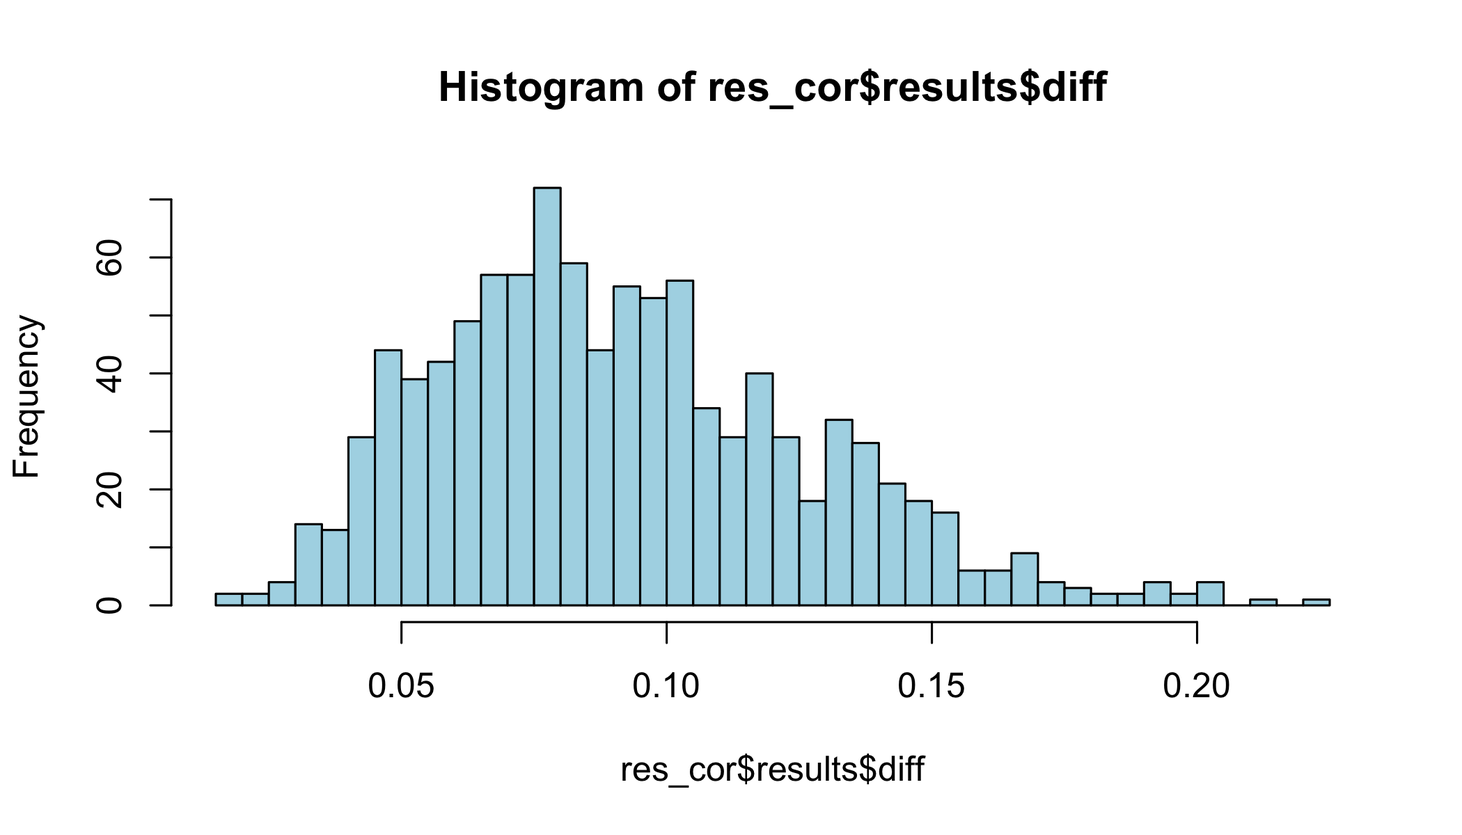
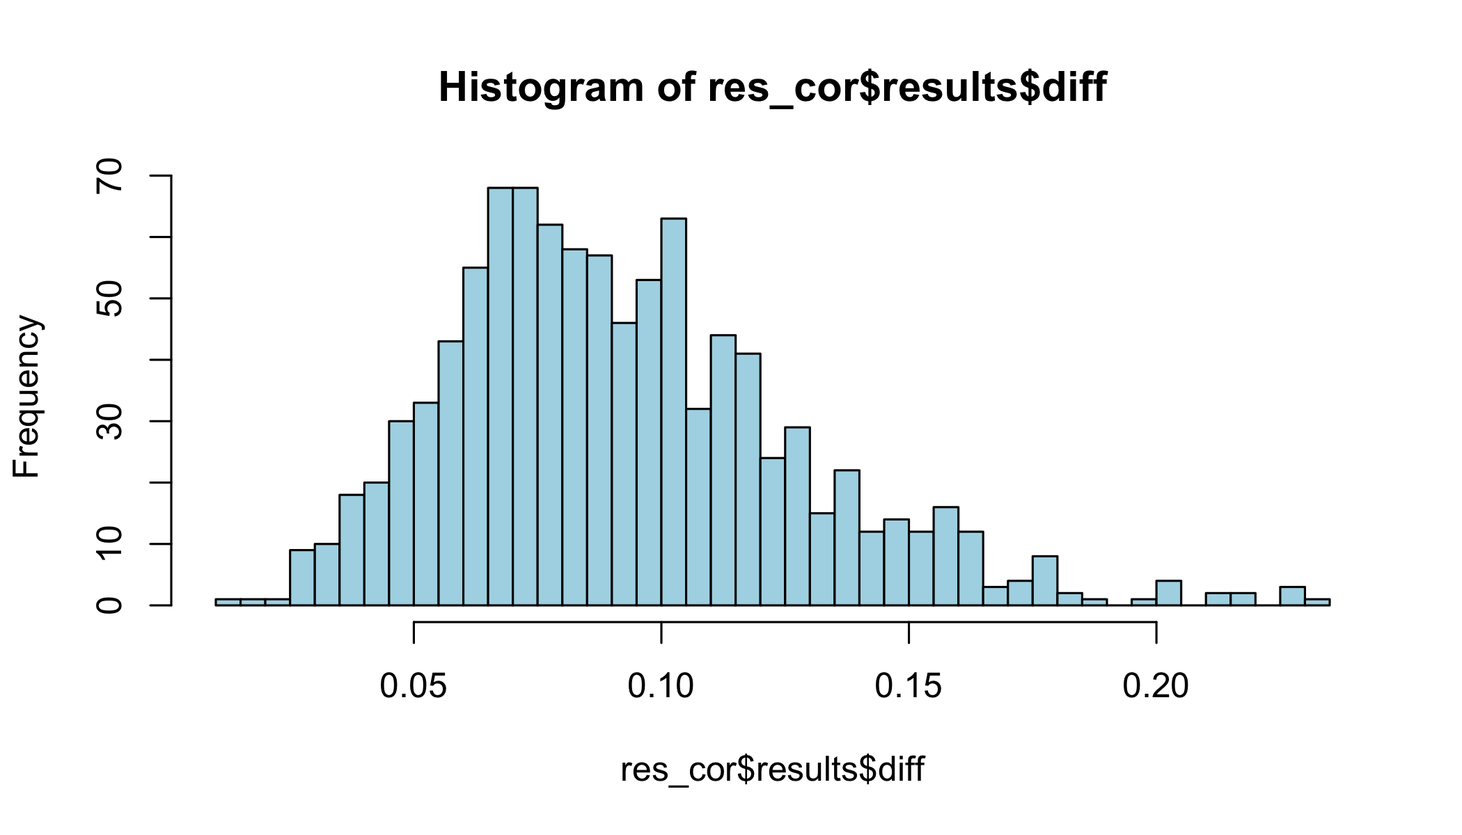
0.2.3 sim

diff --git a/docs/simcutoffs.html b/docs/simcutoffs.html
@@ -5,7 +5,7 @@
 <meta name="generator" content="quarto-1.5.56">
 <meta name="viewport" content="width=device-width, initial-scale=1.0, user-scalable=yes">
 <meta name="author" content="Magnus Johansson">
-<meta name="dcterms.date" content="2024-08-19">
+<meta name="dcterms.date" content="2024-08-20">
 <title>Simulation based cutoff values for Rasch item fit and residual correlations – R, Rasch, etc</title>
 <style>
 code{white-space: pre-wrap;}
@@ -195,9 +195,9 @@ div.csl-indent {
             <div class="quarto-navbar-tools">
 </div>
       </div> <!-- /container-fluid -->
-    </nav><div id="quarto-announcement" data-announcement-id="4f2c371d4eccc0acd69f13ac61f33082" class="alert alert-primary hidden">
+    </nav><div id="quarto-announcement" data-announcement-id="f2201fbbefb1e9b8685bd91e4d0da5c8" class="alert alert-primary hidden">
 <i class="bi bi-info-circle quarto-announcement-icon"></i><div class="quarto-announcement-content">
-<p><strong>Note:</strong> The RISEkbmRasch vignette has new sections on item fit visualization, LR DIF tests, and person fit. Also, item fit now uses conditional estimation.</p>
+<p><strong>Note:</strong> The RISEkbmRasch vignette has new material on conditional item fit and simulation based cutoff values.</p>
 </div>
 <i class="bi bi-x-lg quarto-announcement-action"></i>
 </div>
@@ -244,7 +244,7 @@ div.csl-indent {
     <div>
     <div class="quarto-title-meta-heading">Published</div>
     <div class="quarto-title-meta-contents">
-      <p class="date">August 19, 2024</p>
+      <p class="date">August 20, 2024</p>
     </div>
   </div>
   
@@ -266,7 +266,7 @@ div.csl-indent {
 <details open="" class="code-fold"><summary>Code</summary><div class="sourceCode" id="cb1"><pre class="downlit sourceCode r code-with-copy"><code class="sourceCode R"><span><span class="kw"><a href="https://rdrr.io/r/base/library.html">library</a></span><span class="op">(</span><span class="va"><a href="https://github.com/pgmj/RISEkbmRasch">RISEkbmRasch</a></span><span class="op">)</span></span></code><button title="Copy to Clipboard" class="code-copy-button"><i class="bi"></i></button></pre></div>
 </details>
 </div>
-<p>For simplicity, we will use the dataset <code>pcmdat2</code> included in the <code>eRm</code> package.</p>
+<p>For simplicity, we will use the dataset <code>pcmdat2</code> included in the <code>eRm</code> package. If you want to use this function with dichotomous data, use option <code>model = "RM"</code>.</p>
 <div class="cell">
 <details open="" class="code-fold"><summary>Code</summary><div class="sourceCode" id="cb2"><pre class="downlit sourceCode r code-with-copy"><code class="sourceCode R"><span><span class="va">res_cor</span> <span class="op">&lt;-</span> <span class="fu"><a href="https://rdrr.io/pkg/RISEkbmRasch/man/RIgetResidCor.html">RIgetResidCor</a></span><span class="op">(</span><span class="va">pcmdat2</span>, iterations <span class="op">=</span> <span class="fl">1000</span>, cpu <span class="op">=</span> <span class="fl">8</span><span class="op">)</span></span></code><button title="Copy to Clipboard" class="code-copy-button"><i class="bi"></i></button></pre></div>
 </details>
@@ -277,17 +277,17 @@ div.csl-indent {
 </details><div class="cell-output cell-output-stdout">
 <pre><code>List of 8
  $ results    :'data.frame':    1000 obs. of  3 variables:
-  ..$ mean: num [1:1000] -0.256 -0.235 -0.262 -0.265 -0.259 ...
-  ..$ max : num [1:1000] -0.155 -0.175 -0.209 -0.206 -0.124 ...
-  ..$ diff: num [1:1000] 0.1009 0.0596 0.0523 0.0587 0.1344 ...
+  ..$ mean: num [1:1000] -0.269 -0.26 -0.251 -0.265 -0.26 ...
+  ..$ max : num [1:1000] -0.196 -0.183 -0.177 -0.224 -0.175 ...
+  ..$ diff: num [1:1000] 0.0734 0.0769 0.0738 0.0414 0.0854 ...
  $ sample_n   : int 300
  $ sample_mean: num 0.684
  $ sample_sd  : num 1.54
- $ max_diff   : num 0.221
- $ sd_diff    : num 0.035
- $ p95        : Named num 0.154
+ $ max_diff   : num 0.232
+ $ sd_diff    : num 0.0352
+ $ p95        : Named num 0.157
   ..- attr(*, "names")= chr "95%"
- $ p99        : Named num 0.192
+ $ p99        : Named num 0.201
   ..- attr(*, "names")= chr "99%"</code></pre>
 </div>
 </div>
@@ -337,7 +337,7 @@ div.csl-indent {
 <tfoot>
 <tr><td style="padding: 0; " colspan="100%"><span style="font-style: italic;">Note: </span></td></tr>
 <tr><td style="padding: 0; " colspan="100%">
-<sup></sup> Relative cut-off value (highlighted in red) is -0.034, which is 0.192 above the average correlation (-0.226).</td></tr>
+<sup></sup> Relative cut-off value (highlighted in red) is -0.025, which is 0.201 above the average correlation (-0.226).</td></tr>
 </tfoot>
 </table>
 </div>
@@ -355,7 +355,7 @@ div.csl-indent {
 <details open="" class="code-fold"><summary>Code</summary><div class="sourceCode" id="cb7"><pre class="downlit sourceCode r code-with-copy"><code class="sourceCode R"><span><span class="fu"><a href="https://rdrr.io/r/base/summary.html">summary</a></span><span class="op">(</span><span class="va">res_cor</span><span class="op">$</span><span class="va">results</span><span class="op">$</span><span class="va">diff</span><span class="op">)</span></span></code><button title="Copy to Clipboard" class="code-copy-button"><i class="bi"></i></button></pre></div>
 </details><div class="cell-output cell-output-stdout">
 <pre><code>   Min. 1st Qu.  Median    Mean 3rd Qu.    Max. 
-0.01686 0.06628 0.08726 0.09174 0.11379 0.22099 </code></pre>
+0.01376 0.06703 0.08674 0.09201 0.11227 0.23216 </code></pre>
 </div>
 </div>
 </section><section id="conditional-item-fit" class="level2" data-number="3"><h2 data-number="3" class="anchored" data-anchor-id="conditional-item-fit">
@@ -371,7 +371,7 @@ Note
 </div>
 </div>
 <div class="callout-body-container callout-body">
-<p>We will use 1000 simulations, but no extensive tests have been made (yet) to determine a reasonable number of simulations. The more items/thresholds and the bigger your sample size, the more time this simulation will take. If you have more cpu cores, this will reduce the time (please remember to not use all cores, leave 1-2 unused). To give some reference, the code below (n = 300, 4 items, 4 response categories) using 500 iterations took 7.7 seconds on 8 cpu cores and 11.7 seconds on 4 cores. 1000 iterations on 8 cores took 12.8 seconds (based on single runs).</p>
+<p>We will use 1000 simulations, but no extensive tests have been made (yet) to determine a reasonable number of simulations. The more items/thresholds and the bigger your sample size, the more time this simulation will take. If you have more cpu cores, this will reduce the time (please remember to not use all cores, leave 1-2 unused). To give some reference, the code below (n = 300, 4 items, 4 response categories per item) using 500 iterations took 7.7 seconds on 8 cpu cores and 11.7 seconds on 4 cores. 1000 iterations on 8 cores took 12.8 seconds (based on single runs).</p>
 </div>
 </div>
 <div class="cell">
@@ -383,13 +383,13 @@ Note
 <details open="" class="code-fold"><summary>Code</summary><div class="sourceCode" id="cb10"><pre class="downlit sourceCode r code-with-copy"><code class="sourceCode R"><span><span class="va">itemfit_sim</span><span class="op">[[</span><span class="fl">1</span><span class="op">]</span><span class="op">]</span></span></code><button title="Copy to Clipboard" class="code-copy-button"><i class="bi"></i></button></pre></div>
 </details><div class="cell-output cell-output-stdout">
 <pre><code>  Item InfitMSQ OutfitMSQ
-1   V1    1.079     1.024
-2   V2    0.987     1.017
-3   V3    1.037     1.065
-4   V4    0.873     0.839</code></pre>
+1   I1    0.972     0.923
+2   I2    0.982     1.009
+3   I3    1.038     1.044
+4   I4    1.008     0.996</code></pre>
 </div>
 </div>
-<p>This object can in turn be used with three different functions. Most importantly, you can use it with <code><a href="https://rdrr.io/pkg/RISEkbmRasch/man/RIitemfit.html">RIitemfit()</a></code> to set cutoff values for both MSQ and ZSTD based on your sample size and item parameters. <code><a href="https://rdrr.io/pkg/RISEkbmRasch/man/RIitemfit.html">RIitemfit()</a></code> uses the .05 and 99.5 percentile values for each individual item. The cutoff limit might be added as a user option later.</p>
+<p>This object can in turn be used with three different functions. Most importantly, you can use it with <code><a href="https://rdrr.io/pkg/RISEkbmRasch/man/RIitemfit.html">RIitemfit()</a></code> to set cutoff values for both MSQ and ZSTD based on your sample size and item parameters. <code><a href="https://rdrr.io/pkg/RISEkbmRasch/man/RIitemfit.html">RIitemfit()</a></code> uses the .05 and 99.5 percentile values for each individual item. The cutoff limit might be added as a user option later. You can optionally sort the table output according to misfit by using <code>sort = "infit"</code>.</p>
 <div class="cell">
 <details open="" class="code-fold"><summary>Code</summary><div class="sourceCode" id="cb12"><pre class="downlit sourceCode r code-with-copy"><code class="sourceCode R"><span><span class="fu"><a href="https://rdrr.io/pkg/RISEkbmRasch/man/RIitemfit.html">RIitemfit</a></span><span class="op">(</span><span class="va">pcmdat2</span>, simcut <span class="op">=</span> <span class="va">itemfit_sim</span><span class="op">)</span></span></code><button title="Copy to Clipboard" class="code-copy-button"><i class="bi"></i></button></pre></div>
 </details><div class="cell-output-display">
@@ -400,35 +400,45 @@ Note
    <th style="text-align:left;position: sticky; top:0; background-color: #FFFFFF;font-weight: bold;"> Infit thresholds </th>
    <th style="text-align:left;position: sticky; top:0; background-color: #FFFFFF;font-weight: bold;"> OutfitMSQ </th>
    <th style="text-align:left;position: sticky; top:0; background-color: #FFFFFF;font-weight: bold;"> Outfit thresholds </th>
+   <th style="text-align:right;position: sticky; top:0; background-color: #FFFFFF;font-weight: bold;"> Infit diff </th>
+   <th style="text-align:right;position: sticky; top:0; background-color: #FFFFFF;font-weight: bold;"> Outfit diff </th>
   </tr></thead>
 <tbody>
 <tr>
 <td style="text-align:left;"> I1 </td>
    <td style="text-align:left;"> <span style="     color: black !important;">1.08</span> </td>
-   <td style="text-align:left;"> [0.857, 1.165] </td>
+   <td style="text-align:left;"> [0.855, 1.155] </td>
    <td style="text-align:left;"> <span style="     color: black !important;">1.069</span> </td>
-   <td style="text-align:left;"> [0.815, 1.231] </td>
+   <td style="text-align:left;"> [0.824, 1.206] </td>
+   <td style="text-align:right;"> 0.075 </td>
+   <td style="text-align:right;"> 0.137 </td>
   </tr>
 <tr>
 <td style="text-align:left;"> I2 </td>
    <td style="text-align:left;"> <span style="     color: black !important;">1.155</span> </td>
-   <td style="text-align:left;"> [0.838, 1.166] </td>
+   <td style="text-align:left;"> [0.844, 1.179] </td>
    <td style="text-align:left;"> <span style="     color: black !important;">1.084</span> </td>
-   <td style="text-align:left;"> [0.769, 1.335] </td>
+   <td style="text-align:left;"> [0.783, 1.302] </td>
+   <td style="text-align:right;"> 0.024 </td>
+   <td style="text-align:right;"> 0.218 </td>
   </tr>
 <tr>
 <td style="text-align:left;"> I3 </td>
    <td style="text-align:left;"> <span style="     color: red !important;">0.828</span> </td>
-   <td style="text-align:left;"> [0.844, 1.154] </td>
-   <td style="text-align:left;"> <span style="     color: black !important;">0.802</span> </td>
-   <td style="text-align:left;"> [0.794, 1.23] </td>
+   <td style="text-align:left;"> [0.843, 1.158] </td>
+   <td style="text-align:left;"> <span style="     color: red !important;">0.802</span> </td>
+   <td style="text-align:left;"> [0.803, 1.252] </td>
+   <td style="text-align:right;"> 0.015 </td>
+   <td style="text-align:right;"> 0.001 </td>
   </tr>
 <tr>
 <td style="text-align:left;"> I4 </td>
    <td style="text-align:left;"> <span style="     color: black !important;">1.007</span> </td>
-   <td style="text-align:left;"> [0.821, 1.189] </td>
+   <td style="text-align:left;"> [0.839, 1.178] </td>
    <td style="text-align:left;"> <span style="     color: black !important;">1.024</span> </td>
-   <td style="text-align:left;"> [0.795, 1.236] </td>
+   <td style="text-align:left;"> [0.8, 1.205] </td>
+   <td style="text-align:right;"> 0.168 </td>
+   <td style="text-align:right;"> 0.181 </td>
   </tr>
 </tbody>
 <tfoot>
@@ -439,9 +449,9 @@ Note
 </table>
 </div>
 </div>
-<p>The function <code><a href="https://rdrr.io/pkg/RISEkbmRasch/man/RIgetfitPlot.html">RIgetfitPlot()</a></code> uses the package <code>ggdist</code> to plot the distribution of fit values from the simulation results.</p>
+<p>The function <code><a href="https://rdrr.io/pkg/RISEkbmRasch/man/RIgetfitPlot.html">RIgetfitPlot()</a></code> uses the package <code>ggdist</code> to plot the distribution of fit values from the simulation results. You can get the observed conditional item fit included in the plot by using the option <code>data = yourdataframe</code>.</p>
 <div class="cell">
-<details open="" class="code-fold"><summary>Code</summary><div class="sourceCode" id="cb13"><pre class="downlit sourceCode r code-with-copy"><code class="sourceCode R"><span><span class="fu"><a href="https://rdrr.io/pkg/RISEkbmRasch/man/RIgetfitPlot.html">RIgetfitPlot</a></span><span class="op">(</span><span class="va">itemfit_sim</span><span class="op">)</span></span></code><button title="Copy to Clipboard" class="code-copy-button"><i class="bi"></i></button></pre></div>
+<details open="" class="code-fold"><summary>Code</summary><div class="sourceCode" id="cb13"><pre class="downlit sourceCode r code-with-copy"><code class="sourceCode R"><span><span class="fu"><a href="https://rdrr.io/pkg/RISEkbmRasch/man/RIgetfitPlot.html">RIgetfitPlot</a></span><span class="op">(</span><span class="va">itemfit_sim</span>, data <span class="op">=</span> <span class="va">pcmdat2</span><span class="op">)</span></span></code><button title="Copy to Clipboard" class="code-copy-button"><i class="bi"></i></button></pre></div>
 </details><div class="cell-output-display">
 <div>
 <figure class="figure"><p><img src="simcutoffs_files/figure-html/unnamed-chunk-9-1.png" class="img-fluid figure-img" width="1050"></p>
@@ -486,18 +496,15 @@ attached base packages:
  [8] datasets  methods   base     
 
 other attached packages:
- [1] RASCHplot_0.1.0      ggdist_3.3.2         doParallel_1.0.17   
- [4] iterators_1.0.14     foreach_1.5.2        RISEkbmRasch_0.2.2.1
- [7] janitor_2.2.0        iarm_0.4.3           hexbin_1.28.3       
-[10] catR_3.17            glue_1.7.0           ggrepel_0.9.5       
-[13] patchwork_1.2.0      reshape_0.8.9        matrixStats_1.3.0   
-[16] psychotree_0.16-1    psychotools_0.7-4    partykit_1.2-21     
-[19] mvtnorm_1.2-5        libcoin_1.0-10       psych_2.4.6.26      
-[22] mirt_1.42            lattice_0.22-6       eRm_1.0-6           
-[25] lubridate_1.9.3      forcats_1.0.0        stringr_1.5.1       
-[28] dplyr_1.1.4          purrr_1.0.2          readr_2.1.5         
-[31] tidyr_1.3.1          tibble_3.2.1         ggplot2_3.5.1       
-[34] tidyverse_2.0.0      kableExtra_1.4.0     formattable_0.2.1   
+ [1] RASCHplot_0.1.0    ggdist_3.3.2       doParallel_1.0.17  iterators_1.0.14  
+ [5] foreach_1.5.2      RISEkbmRasch_0.2.3 janitor_2.2.0      iarm_0.4.3        
+ [9] hexbin_1.28.3      catR_3.17          glue_1.7.0         ggrepel_0.9.5     
+[13] patchwork_1.2.0    reshape_0.8.9      matrixStats_1.3.0  psychotree_0.16-1 
+[17] psychotools_0.7-4  partykit_1.2-21    mvtnorm_1.2-5      libcoin_1.0-10    
+[21] psych_2.4.6.26     mirt_1.42          lattice_0.22-6     eRm_1.0-6         
+[25] lubridate_1.9.3    forcats_1.0.0      stringr_1.5.1      dplyr_1.1.4       
+[29] purrr_1.0.2        readr_2.1.5        tidyr_1.3.1        tibble_3.2.1      
+[33] ggplot2_3.5.1      tidyverse_2.0.0    kableExtra_1.4.0   formattable_0.2.1 
 
 loaded via a namespace (and not attached):
   [1] later_1.3.2          splines_4.4.1        R.oo_1.26.0         
@@ -567,12 +574,12 @@ Müller, M. (2020). Item fit statistics for <span>Rasch</span> analysis: Can we 
   author = {Johansson, Magnus},
   title = {Simulation Based Cutoff Values for {Rasch} Item Fit and
     Residual Correlations},
-  date = {2024-08-19},
+  date = {2024-08-20},
   url = {https://pgmj.github.io/simcutoffs.html},
   langid = {en}
 }
 </code><button title="Copy to Clipboard" class="code-copy-button"><i class="bi"></i></button></pre><div class="quarto-appendix-secondary-label">For attribution, please cite this work as:</div><div id="ref-johansson2024" class="csl-entry quarto-appendix-citeas" role="listitem">
-Johansson, M. (2024, August 19). <em>Simulation based cutoff values for
+Johansson, M. (2024, August 20). <em>Simulation based cutoff values for
 Rasch item fit and residual correlations</em>. <a href="https://pgmj.github.io/simcutoffs.html">https://pgmj.github.io/simcutoffs.html</a>
 </div></div></section></div></main><!-- /main --><script id="quarto-html-after-body" type="application/javascript">
 window.document.addEventListener("DOMContentLoaded", function (event) {
@@ -1087,7 +1094,7 @@ window.document.addEventListener("DOMContentLoaded", function (event) {
 <span id="cb17-41"><a href="#cb17-41" aria-hidden="true" tabindex="-1"></a><span class="fu">library</span>(RISEkbmRasch)</span>
 <span id="cb17-42"><a href="#cb17-42" aria-hidden="true" tabindex="-1"></a><span class="in">```</span></span>
 <span id="cb17-43"><a href="#cb17-43" aria-hidden="true" tabindex="-1"></a></span>
-<span id="cb17-44"><a href="#cb17-44" aria-hidden="true" tabindex="-1"></a>For simplicity, we will use the dataset <span class="in">`pcmdat2`</span> included in the <span class="in">`eRm`</span> package.</span>
+<span id="cb17-44"><a href="#cb17-44" aria-hidden="true" tabindex="-1"></a>For simplicity, we will use the dataset <span class="in">`pcmdat2`</span> included in the <span class="in">`eRm`</span> package. If you want to use this function with dichotomous data, use option <span class="in">`model = "RM"`</span>.</span>
 <span id="cb17-45"><a href="#cb17-45" aria-hidden="true" tabindex="-1"></a></span>
 <span id="cb17-48"><a href="#cb17-48" aria-hidden="true" tabindex="-1"></a><span class="in">```{r}</span></span>
 <span id="cb17-49"><a href="#cb17-49" aria-hidden="true" tabindex="-1"></a>res_cor <span class="ot">&lt;-</span> <span class="fu">RIgetResidCor</span>(pcmdat2, <span class="at">iterations =</span> <span class="dv">1000</span>, <span class="at">cpu =</span> <span class="dv">8</span>)</span>
@@ -1138,37 +1145,38 @@ window.document.addEventListener("DOMContentLoaded", function (event) {
 <span id="cb17-104"><a href="#cb17-104" aria-hidden="true" tabindex="-1"></a>functions. Most importantly, you can use it with <span class="in">`RIitemfit()`</span> to set</span>
 <span id="cb17-105"><a href="#cb17-105" aria-hidden="true" tabindex="-1"></a>cutoff values for both MSQ and ZSTD based on your sample size and item</span>
 <span id="cb17-106"><a href="#cb17-106" aria-hidden="true" tabindex="-1"></a>parameters. <span class="in">`RIitemfit()`</span> uses the .05 and 99.5 percentile values for each individual item.</span>
-<span id="cb17-107"><a href="#cb17-107" aria-hidden="true" tabindex="-1"></a>The cutoff limit might be added as a user option later.</span>
+<span id="cb17-107"><a href="#cb17-107" aria-hidden="true" tabindex="-1"></a>The cutoff limit might be added as a user option later. You can optionally sort the table output according to misfit by using <span class="in">`sort = "infit"`</span>.</span>
 <span id="cb17-108"><a href="#cb17-108" aria-hidden="true" tabindex="-1"></a></span>
 <span id="cb17-111"><a href="#cb17-111" aria-hidden="true" tabindex="-1"></a><span class="in">```{r}</span></span>
 <span id="cb17-112"><a href="#cb17-112" aria-hidden="true" tabindex="-1"></a><span class="fu">RIitemfit</span>(pcmdat2, <span class="at">simcut =</span> itemfit_sim)</span>
 <span id="cb17-113"><a href="#cb17-113" aria-hidden="true" tabindex="-1"></a><span class="in">```</span></span>
 <span id="cb17-114"><a href="#cb17-114" aria-hidden="true" tabindex="-1"></a></span>
 <span id="cb17-115"><a href="#cb17-115" aria-hidden="true" tabindex="-1"></a>The function <span class="in">`RIgetfitPlot()`</span> uses the package <span class="in">`ggdist`</span> to plot the</span>
-<span id="cb17-116"><a href="#cb17-116" aria-hidden="true" tabindex="-1"></a>distribution of fit values from the simulation results.</span>
+<span id="cb17-116"><a href="#cb17-116" aria-hidden="true" tabindex="-1"></a>distribution of fit values from the simulation results. You can get the observed conditional item fit included in the plot by using the option <span class="in">`data = yourdataframe`</span>.</span>
 <span id="cb17-117"><a href="#cb17-117" aria-hidden="true" tabindex="-1"></a></span>
 <span id="cb17-120"><a href="#cb17-120" aria-hidden="true" tabindex="-1"></a><span class="in">```{r}</span></span>
-<span id="cb17-121"><a href="#cb17-121" aria-hidden="true" tabindex="-1"></a><span class="fu">RIgetfitPlot</span>(itemfit_sim)</span>
-<span id="cb17-122"><a href="#cb17-122" aria-hidden="true" tabindex="-1"></a><span class="in">```</span></span>
-<span id="cb17-123"><a href="#cb17-123" aria-hidden="true" tabindex="-1"></a></span>
-<span id="cb17-124"><a href="#cb17-124" aria-hidden="true" tabindex="-1"></a><span class="fu">## Visualizing conditional fit</span></span>
-<span id="cb17-125"><a href="#cb17-125" aria-hidden="true" tabindex="-1"></a></span>
-<span id="cb17-126"><a href="#cb17-126" aria-hidden="true" tabindex="-1"></a>As a side note, a graphical representation of conditional item fit across class intervals <span class="co">[</span><span class="ot">@buchardt_visualizing_2023</span><span class="co">]</span> can be helpful to further analyze our observed data.</span>
-<span id="cb17-127"><a href="#cb17-127" aria-hidden="true" tabindex="-1"></a></span>
-<span id="cb17-130"><a href="#cb17-130" aria-hidden="true" tabindex="-1"></a><span class="in">```{r}</span></span>
-<span id="cb17-131"><a href="#cb17-131" aria-hidden="true" tabindex="-1"></a><span class="fu">library</span>(RASCHplot) <span class="co"># devtools::install_github("ERRTG/RASCHplot")</span></span>
-<span id="cb17-132"><a href="#cb17-132" aria-hidden="true" tabindex="-1"></a><span class="fu">CICCplot</span>(<span class="fu">PCM</span>(pcmdat2), <span class="at">which.item =</span> <span class="dv">1</span><span class="sc">:</span><span class="dv">4</span>, <span class="at">grid.items =</span> <span class="cn">TRUE</span>)</span>
-<span id="cb17-133"><a href="#cb17-133" aria-hidden="true" tabindex="-1"></a><span class="in">```</span></span>
-<span id="cb17-134"><a href="#cb17-134" aria-hidden="true" tabindex="-1"></a></span>
+<span id="cb17-121"><a href="#cb17-121" aria-hidden="true" tabindex="-1"></a><span class="fu">RIgetfitPlot</span>(itemfit_sim, <span class="at">data =</span> pcmdat2)</span>
+<span id="cb17-122"><a href="#cb17-122" aria-hidden="true" tabindex="-1"></a></span>
+<span id="cb17-123"><a href="#cb17-123" aria-hidden="true" tabindex="-1"></a><span class="in">```</span></span>
+<span id="cb17-124"><a href="#cb17-124" aria-hidden="true" tabindex="-1"></a></span>
+<span id="cb17-125"><a href="#cb17-125" aria-hidden="true" tabindex="-1"></a><span class="fu">## Visualizing conditional fit</span></span>
+<span id="cb17-126"><a href="#cb17-126" aria-hidden="true" tabindex="-1"></a></span>
+<span id="cb17-127"><a href="#cb17-127" aria-hidden="true" tabindex="-1"></a>As a side note, a graphical representation of conditional item fit across class intervals <span class="co">[</span><span class="ot">@buchardt_visualizing_2023</span><span class="co">]</span> can be helpful to further analyze our observed data.</span>
+<span id="cb17-128"><a href="#cb17-128" aria-hidden="true" tabindex="-1"></a></span>
+<span id="cb17-131"><a href="#cb17-131" aria-hidden="true" tabindex="-1"></a><span class="in">```{r}</span></span>
+<span id="cb17-132"><a href="#cb17-132" aria-hidden="true" tabindex="-1"></a><span class="fu">library</span>(RASCHplot) <span class="co"># devtools::install_github("ERRTG/RASCHplot")</span></span>
+<span id="cb17-133"><a href="#cb17-133" aria-hidden="true" tabindex="-1"></a><span class="fu">CICCplot</span>(<span class="fu">PCM</span>(pcmdat2), <span class="at">which.item =</span> <span class="dv">1</span><span class="sc">:</span><span class="dv">4</span>, <span class="at">grid.items =</span> <span class="cn">TRUE</span>)</span>
+<span id="cb17-134"><a href="#cb17-134" aria-hidden="true" tabindex="-1"></a><span class="in">```</span></span>
 <span id="cb17-135"><a href="#cb17-135" aria-hidden="true" tabindex="-1"></a></span>
-<span id="cb17-136"><a href="#cb17-136" aria-hidden="true" tabindex="-1"></a><span class="fu">## Session info</span></span>
-<span id="cb17-137"><a href="#cb17-137" aria-hidden="true" tabindex="-1"></a></span>
-<span id="cb17-140"><a href="#cb17-140" aria-hidden="true" tabindex="-1"></a><span class="in">```{r}</span></span>
-<span id="cb17-141"><a href="#cb17-141" aria-hidden="true" tabindex="-1"></a><span class="fu">sessionInfo</span>()</span>
-<span id="cb17-142"><a href="#cb17-142" aria-hidden="true" tabindex="-1"></a><span class="in">```</span></span>
-<span id="cb17-143"><a href="#cb17-143" aria-hidden="true" tabindex="-1"></a></span>
-<span id="cb17-144"><a href="#cb17-144" aria-hidden="true" tabindex="-1"></a><span class="fu">## References</span></span>
-<span id="cb17-145"><a href="#cb17-145" aria-hidden="true" tabindex="-1"></a></span>
+<span id="cb17-136"><a href="#cb17-136" aria-hidden="true" tabindex="-1"></a></span>
+<span id="cb17-137"><a href="#cb17-137" aria-hidden="true" tabindex="-1"></a><span class="fu">## Session info</span></span>
+<span id="cb17-138"><a href="#cb17-138" aria-hidden="true" tabindex="-1"></a></span>
+<span id="cb17-141"><a href="#cb17-141" aria-hidden="true" tabindex="-1"></a><span class="in">```{r}</span></span>
+<span id="cb17-142"><a href="#cb17-142" aria-hidden="true" tabindex="-1"></a><span class="fu">sessionInfo</span>()</span>
+<span id="cb17-143"><a href="#cb17-143" aria-hidden="true" tabindex="-1"></a><span class="in">```</span></span>
+<span id="cb17-144"><a href="#cb17-144" aria-hidden="true" tabindex="-1"></a></span>
+<span id="cb17-145"><a href="#cb17-145" aria-hidden="true" tabindex="-1"></a><span class="fu">## References</span></span>
+<span id="cb17-146"><a href="#cb17-146" aria-hidden="true" tabindex="-1"></a></span>
 </code><button title="Copy to Clipboard" class="code-copy-button" data-in-quarto-modal=""><i class="bi"></i></button></pre></div>
 </div></div></div></div></div>
 </div> <!-- /content -->
